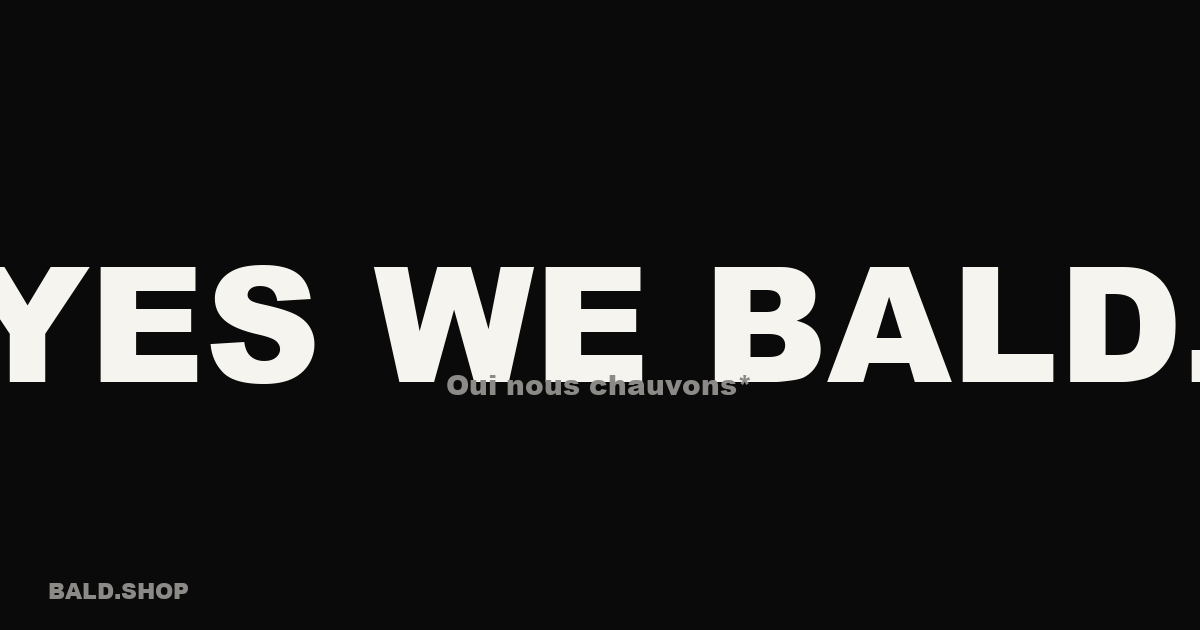
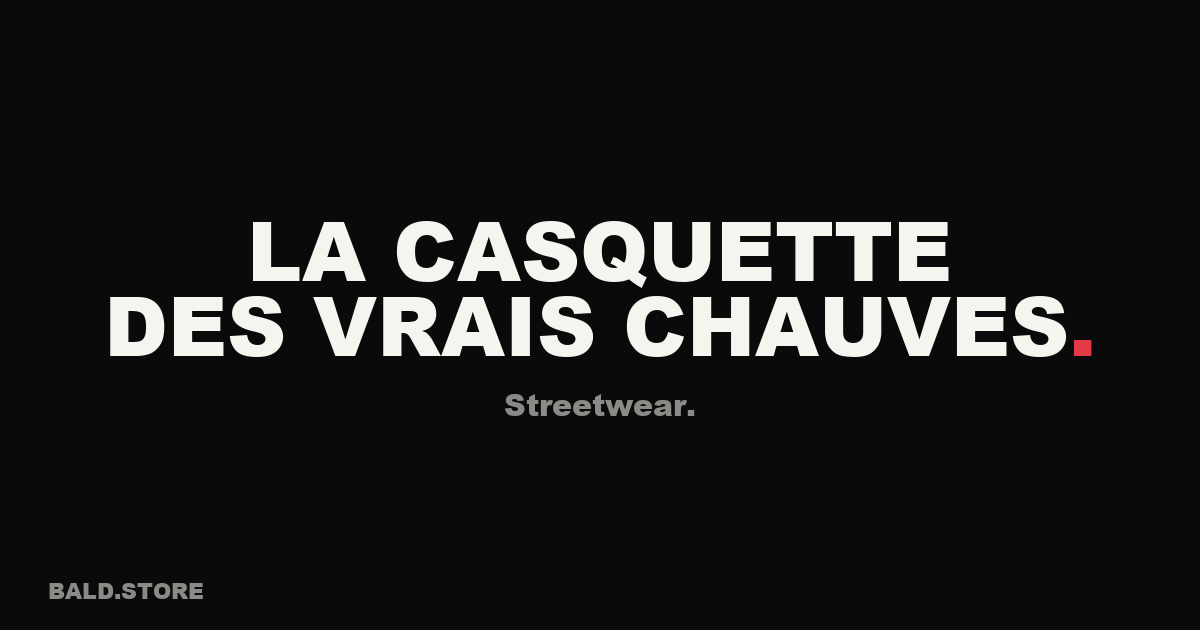
chore(og): new OG image — claim + streetwear positioning
- Replace previous "Yes We Bald" + "Oui nous chauvons" copy
- New claim: "LA CASQUETTE / DES VRAIS CHAUVES." on 2 lines
- Sub: "Streetwear." (positioning, no more product specs)
- Fix brand mention: BALD.STORE (was BALD.SHOP)
- Autofit title size to safe width

Changed region(s): [[0.0, 0.3317, 1.0, 0.6635], [0.0925, 0.9048, 0.185, 0.9651]]

diff --git a/make_og.py b/make_og.py
@@ -2,11 +2,12 @@
 Genere l'image Open Graph (1200x630) servie quand quelqu'un partage le
 lien du site sur Insta / X / Slack / WhatsApp / etc.
 
-Design sobre cohérent avec la DA :
+Design sobre coherent avec la DA :
 - Fond noir (paper ink)
-- "YES WE BALD." en gros (police systeme la plus lourde dispo)
-- "Oui nous chauvons*" en sous-titre
-- Point rouge sur le BALD (touche de la marque)
+- Claim "LA CASQUETTE / DES VRAIS CHAUVES." sur 2 lignes (poster effect)
+- Sous-titre "Streetwear."
+- Point rouge final sur CHAUVES. (rappel marque)
+- Mention "BALD.STORE" en pied
 """
 from PIL import Image, ImageDraw, ImageFont
 from pathlib import Path
@@ -17,7 +18,7 @@ INK = (10, 10, 10)
 PAPER = (246, 244, 238)
 ACCENT = (230, 57, 70)
 
-# Cherche la police systeme la plus lourde (priorite Helvetica Bold / Arial)
+# Cherche la police systeme la plus lourde (priorite Arial Black / Helvetica)
 FONT_CANDIDATES = [
     "/System/Library/Fonts/Supplemental/Arial Black.ttf",
     "/System/Library/Fonts/Helvetica.ttc",
@@ -33,36 +34,79 @@ print(f"Police utilisee : {font_path}")
 img = Image.new("RGB", (W, H), INK)
 draw = ImageDraw.Draw(img)
 
-# Titre principal
-title = "YES WE BALD."
-font_title = ImageFont.truetype(font_path, 160)
-tb = draw.textbbox((0, 0), title, font=font_title)
-tw, th = tb[2] - tb[0], tb[3] - tb[1]
-tx = (W - tw) // 2
-ty = (H - th) // 2 - 50
-# Le titre en blanc
-draw.text((tx, ty), title, font=font_title, fill=PAPER)
-# Override du point final en rouge : on redessine juste le "."
-draw.text((tx + tw - 38, ty), ".", font=font_title, fill=ACCENT)
-
-# Sous-titre
-sub = "Oui nous chauvons*"
-font_sub = ImageFont.truetype(font_path, 28)
-sb = draw.textbbox((0, 0), sub, font=font_sub)
-sw = sb[2] - sb[0]
-sx = (W - sw) // 2
-sy = ty + th + 40
-# Couleur paper avec faible opacite : on simule avec un melange
+# Couleur "fadee" pour le sous-titre et la mention brand (paper + ink mix)
 faded = tuple(int(c * 0.55 + INK[i] * 0.45) for i, c in enumerate(PAPER))
+
+# ============================================================
+#  TITRE — 2 lignes : "LA CASQUETTE" / "DES VRAIS CHAUVES."
+# ============================================================
+line1     = "LA CASQUETTE"
+line2_txt = "DES VRAIS CHAUVES"
+line2_dot = "."
+
+# Mesures
+def measure(text, font):
+    bb = draw.textbbox((0, 0), text, font=font)
+    return bb[2] - bb[0], bb[3] - bb[1]
+
+# Autofit : on part de 130 et on reduit jusqu'a ce que la ligne la plus
+# longue (ligne 2) tienne dans W - 2*MARGIN.
+MARGIN_X    = 90
+SAFE_W      = W - 2 * MARGIN_X
+TITLE_SIZE  = 130
+LEADING     = 8  # espace vertical entre les 2 lignes (proche, effet bloc)
+
+font_title = ImageFont.truetype(font_path, TITLE_SIZE)
+while True:
+    w_full, _ = measure(line2_txt + line2_dot, font_title)
+    if w_full <= SAFE_W or TITLE_SIZE <= 40:
+        break
+    TITLE_SIZE -= 4
+    font_title = ImageFont.truetype(font_path, TITLE_SIZE)
+
+w1, h1 = measure(line1, font_title)
+w2_txt, h2 = measure(line2_txt, font_title)
+w2_dot, _  = measure(line2_dot, font_title)
+w2 = w2_txt + w2_dot
+
+# Position verticale : centre le bloc titre + sous-titre legerement plus haut
+SUB_GAP = 56
+SUB_SIZE = 30
+font_sub = ImageFont.truetype(font_path, SUB_SIZE)
+sub = "Streetwear."
+sw, sh = measure(sub, font_sub)
+
+total_h = h1 + LEADING + h2 + SUB_GAP + sh
+ty = (H - total_h) // 2 - 18
+
+# Ligne 1 : "LA CASQUETTE" centree
+x1 = (W - w1) // 2
+draw.text((x1, ty), line1, font=font_title, fill=PAPER)
+
+# Ligne 2 : "DES VRAIS CHAUVES" + "." rouge — centree comme un tout
+x2 = (W - w2) // 2
+y2 = ty + h1 + LEADING
+draw.text((x2, y2), line2_txt, font=font_title, fill=PAPER)
+draw.text((x2 + w2_txt, y2), line2_dot, font=font_title, fill=ACCENT)
+
+# ============================================================
+#  SOUS-TITRE — "Streetwear."
+# ============================================================
+sx = (W - sw) // 2
+sy = ty + h1 + LEADING + h2 + SUB_GAP
 draw.text((sx, sy), sub, font=font_sub, fill=faded)
 
-# Petite mention de marque en bas a gauche
-brand = "BALD.SHOP"
+# ============================================================
+#  BRAND PIED — "BALD.STORE"
+# ============================================================
+brand = "BALD.STORE"
 font_brand = ImageFont.truetype(font_path, 22)
 draw.text((48, H - 56), brand, font=font_brand, fill=faded)
 
+# ============================================================
+#  EXPORT
+# ============================================================
 img.save(BASE / "og-image.png", optimize=True)
-# Compress en JPEG aussi (meilleure compatibilite reseaux sociaux)
 img.save(BASE / "og-image.jpg", quality=88, optimize=True)
 print(f"og-image.png  : {(BASE / 'og-image.png').stat().st_size // 1024} K")
 print(f"og-image.jpg  : {(BASE / 'og-image.jpg').stat().st_size // 1024} K")